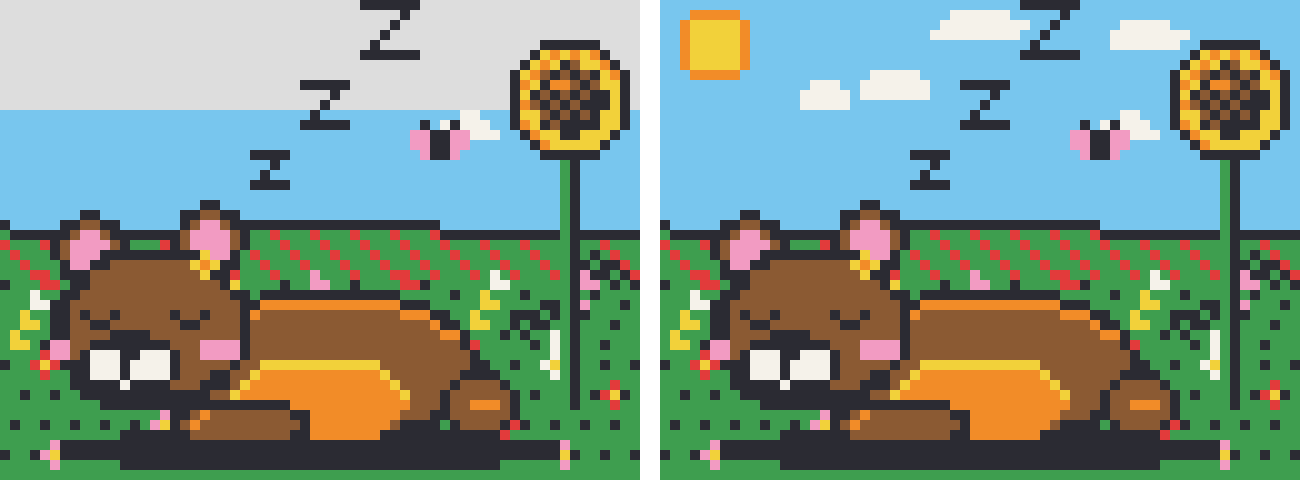
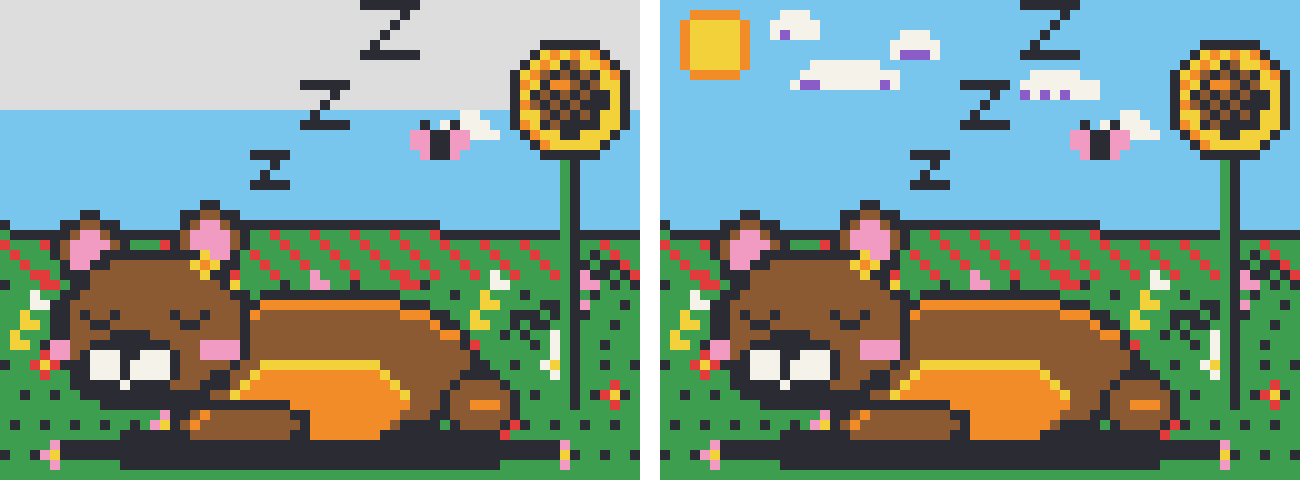
あまいものあつめ：背景の台本を 12 色（こいみどり・むらさき）にし、見本 6 枚を作り直す
ユーザー「色を2つ足してください」「こいみどりとむらさき」

Claude-Session: https://claude.ai/code/session_0124oYPGv8Bi2S4uXrxJYBuT

diff --git a/docs/plans/amai-bg/count.js b/docs/plans/amai-bg/count.js
@@ -1,7 +1,12 @@
-// 数える：node count.js <.txt>…  parsePicture が OK か（MAX_SUGAR を 3072 にした写しで）・角砂糖・色の数
+// 数える：node count.js <.txt>…  parsePicture が OK か（logic.js の写しで MAX_SUGAR を 3072 に、COLORS に D・V を足して）・角砂糖・色の数
 const fs=require('fs'),path=require('path'),os=require('os');
-const src=fs.readFileSync(path.resolve(__dirname,'../../../games/amai/logic.js'),'utf8').replace('const MAX_SUGAR = 2800;','const MAX_SUGAR = 3072;');
-const tmp=path.join(os.tmpdir(),'amai-logic-3072.js');fs.writeFileSync(tmp,src);const L=require(tmp);
+const src=fs.readFileSync(path.resolve(__dirname,'../../../games/amai/logic.js'),'utf8').replace('const MAX_SUGAR = 2800;','const MAX_SUGAR = 3072;')
+  .replace(`[9, "K", "black", "くろ", "#2B2B33", "stripes", [".#.#.", ".#.#.", ".#.#.", ".#.#.", ".#.#."]],`,
+    `[9, "K", "black", "くろ", "#2B2B33", "stripes", [".#.#.", ".#.#.", ".#.#.", ".#.#.", ".#.#."]],
+    [10, "D", "dkgreen", "こいみどり", "#1F5E35", "moon", [".###.", "##...", "#....", "##...", ".###."]],
+    [11, "V", "violet", "むらさき", "#8A5CC8", "drop", ["..#..", ".###.", "#####", "#####", ".###."]],`);
+if(!/"D", "dkgreen"/.test(src))throw new Error('COLORS に D・V を足せなかった');
+const tmp=path.join(os.tmpdir(),'amai-logic-12c.js');fs.writeFileSync(tmp,src);const L=require(tmp);
 for(const f of process.argv.slice(2)){const map=fs.readFileSync(f,'utf8').split('\n').map(s=>s.trimEnd()).filter(s=>s.length);
 const p=L.parsePicture({id:'x',name:'え',season:'',map},false);const cnt={};let n=0;for(const r of map)for(const c of r)if(c!='.'){cnt[c]=(cnt[c]||0)+1;n++;}
 console.log(path.basename(f),'parse',p?'OK':'NG','角砂糖',n,'色',Object.keys(cnt).length,JSON.stringify(cnt));}

diff --git a/docs/plans/amai-bg/bg.py b/docs/plans/amai-bg/bg.py
@@ -5,7 +5,9 @@
 #   1. 地平線（空と地面の境）を、絵の中の地面の帯（草・砂・床・雪の色が多い行）から見つける。無ければ下から 1/3。
 #   2. 空（地平線より上）と地面（下）を、場所ごとの「地の色」と「模様」（雲・遠くの山や木立・太陽・草・花・砂の粒・板・タイル・雪の粒）でうめる。
 #   3. 元の角砂糖のふちどり（K）のすぐ外の 1 マスは、模様を置かず地の色にする（主役が埋もれないように）。
-#   4. 色はなるべく絵がもう使っている色。無い色は 2 色まで足し、それ以上は地の色に置きかえる。
+#   4. 色は 12 色（R O Y G S B P C W K と、足した D こいみどり・V むらさき）。D と V は背景を落ち着かせる色として
+#      いつでも使う（遠くの木立・丘・森のかげ・草のかげ＝D、雲のかげ・花・遠くの山のかげ＝V）。
+#      そのほかの色は、絵がもう使っている色だけ（無ければ代わりの色）。
 #   5. 乱数は入力の中身から作った種つき（同じ入力からは毎回同じ出力）。
 import sys, math, random, hashlib
 
@@ -47,11 +49,12 @@ def main():
     added = []
 
     def col(c, fallback):
-        """絵にある色はそのまま。無い色は 2 色まで足す。それ以上は fallback。"""
-        if c in used or c in added:
+        """絵にある色と D・V はそのまま。それ以外の無い色は fallback。"""
+        if c in used:
             return c
-        if len(added) < 2:
-            added.append(c)
+        if c in "DV":
+            if c not in added:
+                added.append(c)
             return c
         return fallback
 
@@ -135,9 +138,10 @@ def main():
             for x in range(int(cx - w) - 1, int(cx + w) + 2):
                 if any(((x - px) / rx) ** 2 + ((y - py) / ry) ** 2 <= 1 for px, py, rx, ry in parts):
                     cells[(x, y)] = c
-        # 雲の下のはしに うすいかげ（1 行）
+        # 雲の下のはしに 夕方の かげ（下の行の まん中あたりに、まばらに。線にならないように）
         for (x, y) in list(cells):
-            if (x, y + 1) not in cells and shade and shade != c and rnd.random() < 0.6:
+            if ((x, y + 1) not in cells and (x - 1, y) in cells and (x + 1, y) in cells and (x, y - 1) in cells
+                    and shade and shade != c and rnd.random() < 0.35):
                 cells[(x, y)] = shade
         return cells
 
@@ -190,12 +194,12 @@ def main():
                     break
 
     def hills(c, height, bumps, base_row):
-        # 地平線の上の、遠くの丘（地面の続き）。丘は地の色の帯なので、K のすぐ外のマスもこの色にする
+        # 地平線の上の、遠くの丘。K のすぐ外のマスは地の色のまま（ふちどりが暗い丘に溶けないように）
         ph = rnd.random() * 6.28
         for x in range(W):
             h = height * (0.6 + 0.4 * math.sin(x * bumps + ph))
             for y in range(max(0, int(base_row - h)), base_row):
-                if dot[y][x] and not big[y][x]:
+                if free(x, y):
                     out[y][x] = c
                     big[y][x] = True
                     hill[y][x] = True
@@ -216,42 +220,54 @@ def main():
             x += w - 3
 
     W_ = col("W", sky_base)
+    D, V = col("D", None), col("V", None)
     if place in ("kouen", "umibe", "hanabatake"):
         sun(col("Y", sky_base), col("O", col("Y", sky_base)))
     hill = [[False] * W for _ in range(H)]
     if place == "kouen":
-        hills(col("G", gnd_base), 6, 0.22, hz)  # 遠くの丘
-        trees(W // 8, hz - 5, hz - 2, (2.5, 4), col("G", gnd_base), col("Y", None), col("C", None), 0.6)  # 遠くの木立
-        clouds(W_, sky_base if sky_base != "S" else None, 110)
+        hills(D, 6, 0.22, hz)  # 遠くの丘（こいみどり）
+        trees(W // 8, hz - 5, hz - 2, (2.5, 4), D, col("G", D), col("C", None), 0.6)  # 遠くの木立（こいみどりに みどりの光）
+        clouds(W_, V, 110)  # 雲の下に むらさきの かげ
     if place == "hanabatake":
-        hills(col("G", gnd_base), 3, 0.18, hz)
-        clouds(W_, None, 110)
+        hills(D, 4, 0.18, hz)
+        clouds(W_, V, 110)
     if place == "umibe":
-        clouds(W_, None, 110)
+        clouds(W_, V, 110)
     if place == "yukiyama":
-        peaks(W_, col("S", sky_base) if sky_base != "S" else col("B", W_), col("B", None), hz)
-        clouds(W_, None, 160)
+        peaks(W_, col("S", sky_base), V, hz)  # 遠くの雪山：雪 W・かげ S、下の岩肌は かげ側が むらさき
+        clouds(W_, V, 160)
         for y in range(sky_bottom):  # ふる雪
             for x in range(W):
                 if rnd.random() < 0.03:
                     paint(x, y, W_)
     if place == "mori":
-        # 遠くの木立がならぶ森：木（みどりの葉・きいろの木もれ日・ちゃいろの幹）を地平線の少し上から
-        hills(col("G", gnd_base), 7, 0.3, hz)  # 森の奥の地面
-        trees(W // 4, hz - 6, hz - 2, (3, 5.5), col("G", sky_base), col("Y", None), col("C", None), 0.5)
-        clouds(W_, None, 160)
+        # 森：奥の地面と木立は こいみどり、葉の光は みどり・きいろ、幹は ちゃいろ
+        hills(D, 7, 0.3, hz)
+        trees(W // 4, hz - 6, hz - 2, (3, 5.5), D, col("G", D), col("C", None), 0.5)
+        clouds(W_, V, 160)
     if place == "daidokoro":
-        # かべのタイル（しろに みずいろの目地）。床の上 2 行は はば木（ちゃいろ）
+        # かべ：上は しろいタイル（みずいろの目地、ところどころに小さな花の模様）、
+        #       腰の高さから下は 板（だいだいに ちゃいろの継ぎ目、上に ちゃいろの見切り）
         grout = col("S", sky_base)
-        for y in range(hz):
+        wain = max(0, hz - max(6, hz // 4))  # 腰板の上のはし
+        for y in range(wain):
             for x in range(W):
                 if (y % 5 == 4) or ((x + (y // 5 % 2) * 3) % 6 == 5):
                     paint(x, y, grout)
-        base_c = col("C", None)
-        for y in (hz - 2, hz - 1):
+        for ty in range(0, wain, 5):  # タイルの小さな模様（3 枚に 1 枚）
+            for tx in range(0, W, 6):
+                ox = tx - (ty // 5 % 2) * 3
+                if (tx // 6 + ty // 5) % 3 == 0:
+                    cx, cy = ox + 2, ty + 1
+                    for dx, dy in ((0, 0), (-1, 0), (1, 0), (0, 1)):
+                        paint(cx + dx, cy + dy, V if (dx, dy) != (0, 0) else col("Y", V))
+        board, seam2 = col("O", col("C", sky_base)), col("C", None)
+        for y in range(wain, hz):
             for x in range(W):
-                if y >= 0:
-                    paint(x, y, base_c)
+                if y == wain:
+                    paint(x, y, seam2 or board)
+                else:
+                    paint(x, y, seam2 if (seam2 and x % 4 == 3) else board)
     if place == "umibe":
         # 海の波：みずいろの波の線と、しろい波がしら
         for y in range(sea_top, hz):
@@ -287,20 +303,26 @@ def main():
         for x in range(W):
             r = rnd.random()
             if place == "kouen":
-                if r < 0.04:  # 草の葉（きいろみどりの ^）
-                    c = col("Y", gnd_base); paint(x, y, c); paint(x - 1, y + 1, c); paint(x + 1, y + 1, c)
-                elif r < 0.05:  # 小さな花
+                if r < 0.05:  # 草のかげ（こいみどりの ^）
+                    paint(x, y, D); paint(x - 1, y + 1, D); paint(x + 1, y + 1, D)
+                elif r < 0.065:
+                    paint(x, y, col("Y", D))  # 日の当たる草
+                elif r < 0.075:  # 小さな花
                     c = col("P", col("W", gnd_base)); paint(x, y, c)
                     paint(x - 1, y, c); paint(x + 1, y, c); paint(x, y - 1, c); paint(x, y + 1, c); paint(x, y, col("Y", c))
             elif place == "hanabatake":
-                if r < 0.13:
-                    paint(x, y, rnd.choice([col("P", gnd_base), col("R", gnd_base), col("Y", gnd_base), col("W", gnd_base)]))
+                if r < 0.06:
+                    paint(x, y, D)  # 草のかげ
+                elif r < 0.17:
+                    paint(x, y, rnd.choice([col("P", V), col("R", V), col("Y", V), col("W", V), V]))
             elif place == "mori":
-                if r < 0.035:
+                if r < 0.08:
+                    paint(x, y, D)  # 森のかげ
+                elif r < 0.10:
                     paint(x, y, col("Y", gnd_base))  # 木もれ日
-                elif r < 0.05:
+                elif r < 0.115:
                     paint(x, y, col("O", gnd_base))  # 落ち葉
-                elif r < 0.054:  # きのこ
+                elif r < 0.119:  # きのこ
                     paint(x, y, col("R", gnd_base)); paint(x - 1, y, col("R", gnd_base)); paint(x + 1, y, col("R", gnd_base))
                     paint(x, y + 1, col("W", gnd_base))
             elif place == "umibe":
@@ -311,7 +333,9 @@ def main():
             elif place == "yukiyama":
                 if r < 0.06:
                     paint(x, y, col("S", gnd_base))  # 雪のかげの粒
-                elif r < 0.075:  # ふきだまりの線
+                elif r < 0.064:
+                    paint(x, y, V)  # 夕方の雪のかげ
+                elif r < 0.079:  # ふきだまりの線
                     for i in range(3):
                         paint(x + i, y, col("S", gnd_base))
             elif place == "daidokoro":
@@ -336,7 +360,7 @@ def main():
             if dot[y][x] and c not in used and cnt[c] < 3:
                 out[y][x] = gnd_base if y >= hz else sky_base
     open(dst, "w", encoding="utf-8").write("\n".join("".join(r) for r in out) + "\n")
-    print(f"地平線 {hz} 行目（海 {sea_top}）  足した色 {''.join(added) or 'なし'}")
+    print(f"地平線 {hz} 行目（海 {sea_top}）  使った足し色 {''.join(added) or 'なし'}")
 
 
 if __name__ == "__main__":

diff --git a/docs/plans/amai-bg/ba.py b/docs/plans/amai-bg/ba.py
@@ -1,7 +1,7 @@
 # 前と後を横に並べた画像：python3 ba.py <前 .txt> <後 .txt> <出力 .png>
 import sys
 from PIL import Image, ImageDraw
-cols={"R":"#E23B3B","O":"#F28C28","Y":"#F2D13A","G":"#3E9E4F","S":"#78C6EE","B":"#2E5BC9","P":"#F29BC2","C":"#8B5A33","W":"#F5F2EA","K":"#2B2B33",".":"#DDDDDD"}
+cols={"R":"#E23B3B","O":"#F28C28","Y":"#F2D13A","G":"#3E9E4F","S":"#78C6EE","B":"#2E5BC9","P":"#F29BC2","C":"#8B5A33","W":"#F5F2EA","K":"#2B2B33","D":"#1F5E35","V":"#8A5CC8",".":"#DDDDDD"}
 def load(p): return [s.rstrip() for s in open(p,encoding="utf-8") if s.strip()]
 a,b=load(sys.argv[1]),load(sys.argv[2]); s=10; W,H=len(a[0]),len(a); gap=20
 im=Image.new("RGB",(W*s*2+gap,H*s),"white"); d=ImageDraw.Draw(im)

diff --git a/docs/plans/amai-bg/grid.py b/docs/plans/amai-bg/grid.py
@@ -1,0 +1,9 @@
+# 見本の前後の画像を 2 列に並べる：python3 grid.py <出力 .png> <画像>…
+import sys
+from PIL import Image
+ims=[Image.open(p) for p in sys.argv[2:]]; w=max(i.width for i in ims); h=max(i.height for i in ims); g=24
+cols=2; rows=(len(ims)+1)//2
+out=Image.new("RGB",(cols*w+(cols+1)*g, rows*h+(rows+1)*g),"#888888")
+for k,im in enumerate(ims):
+    out.paste(im,(g+(k%cols)*(w+g), g+(k//cols)*(h+g)))
+out.save(sys.argv[1])
